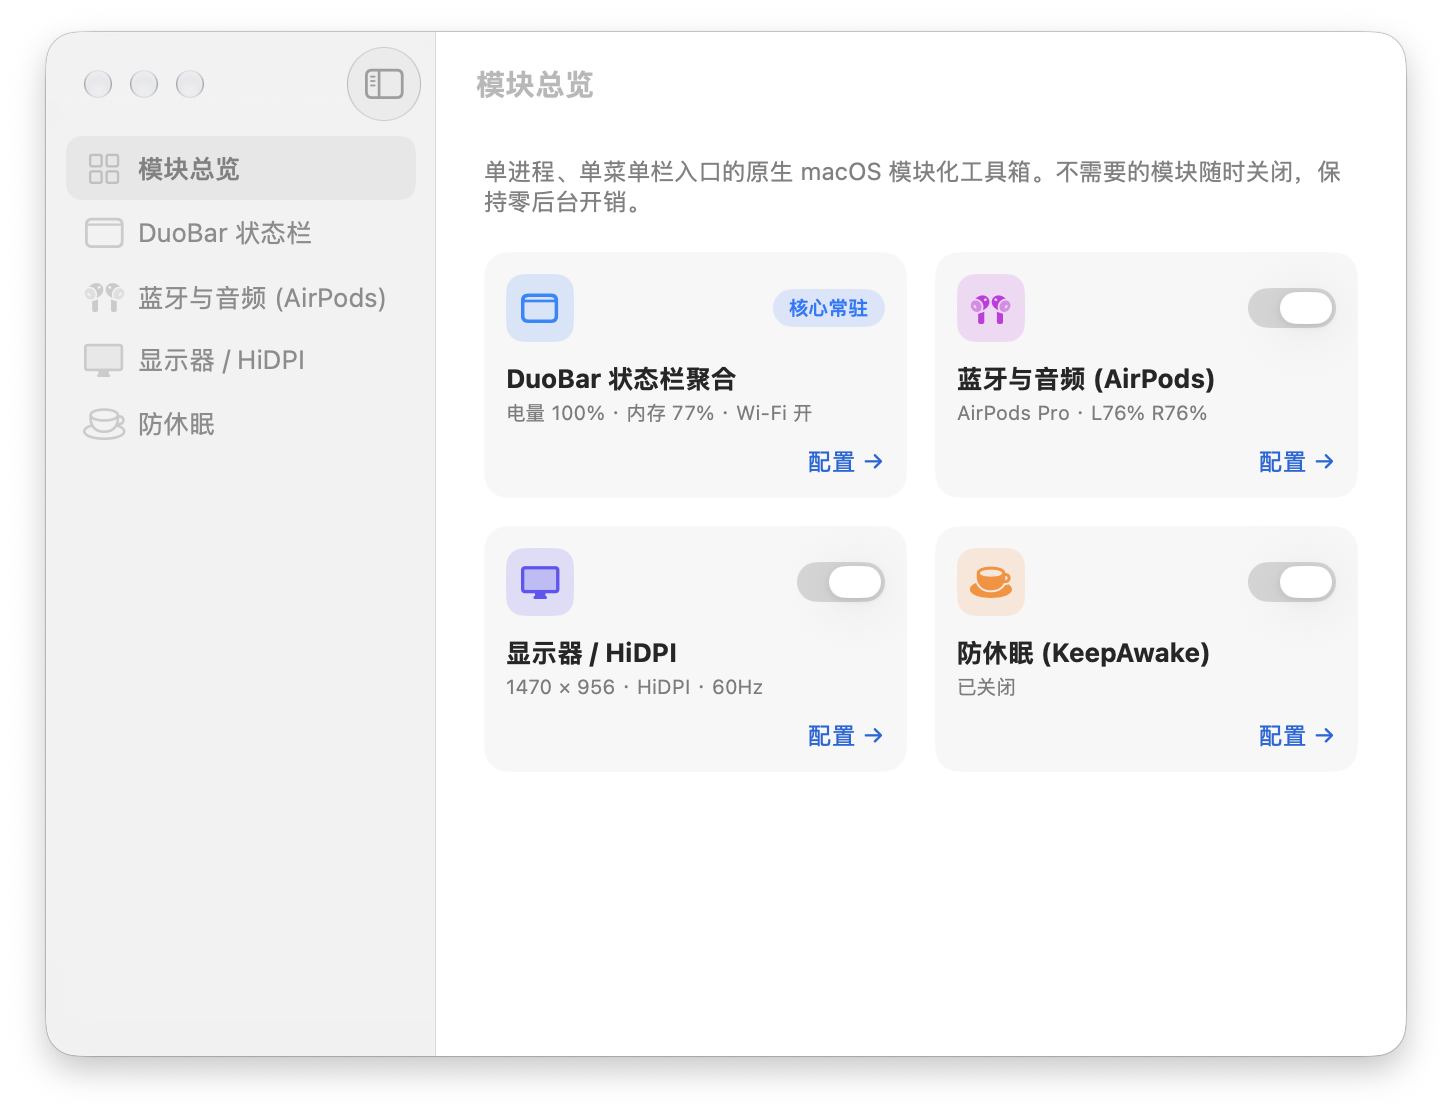
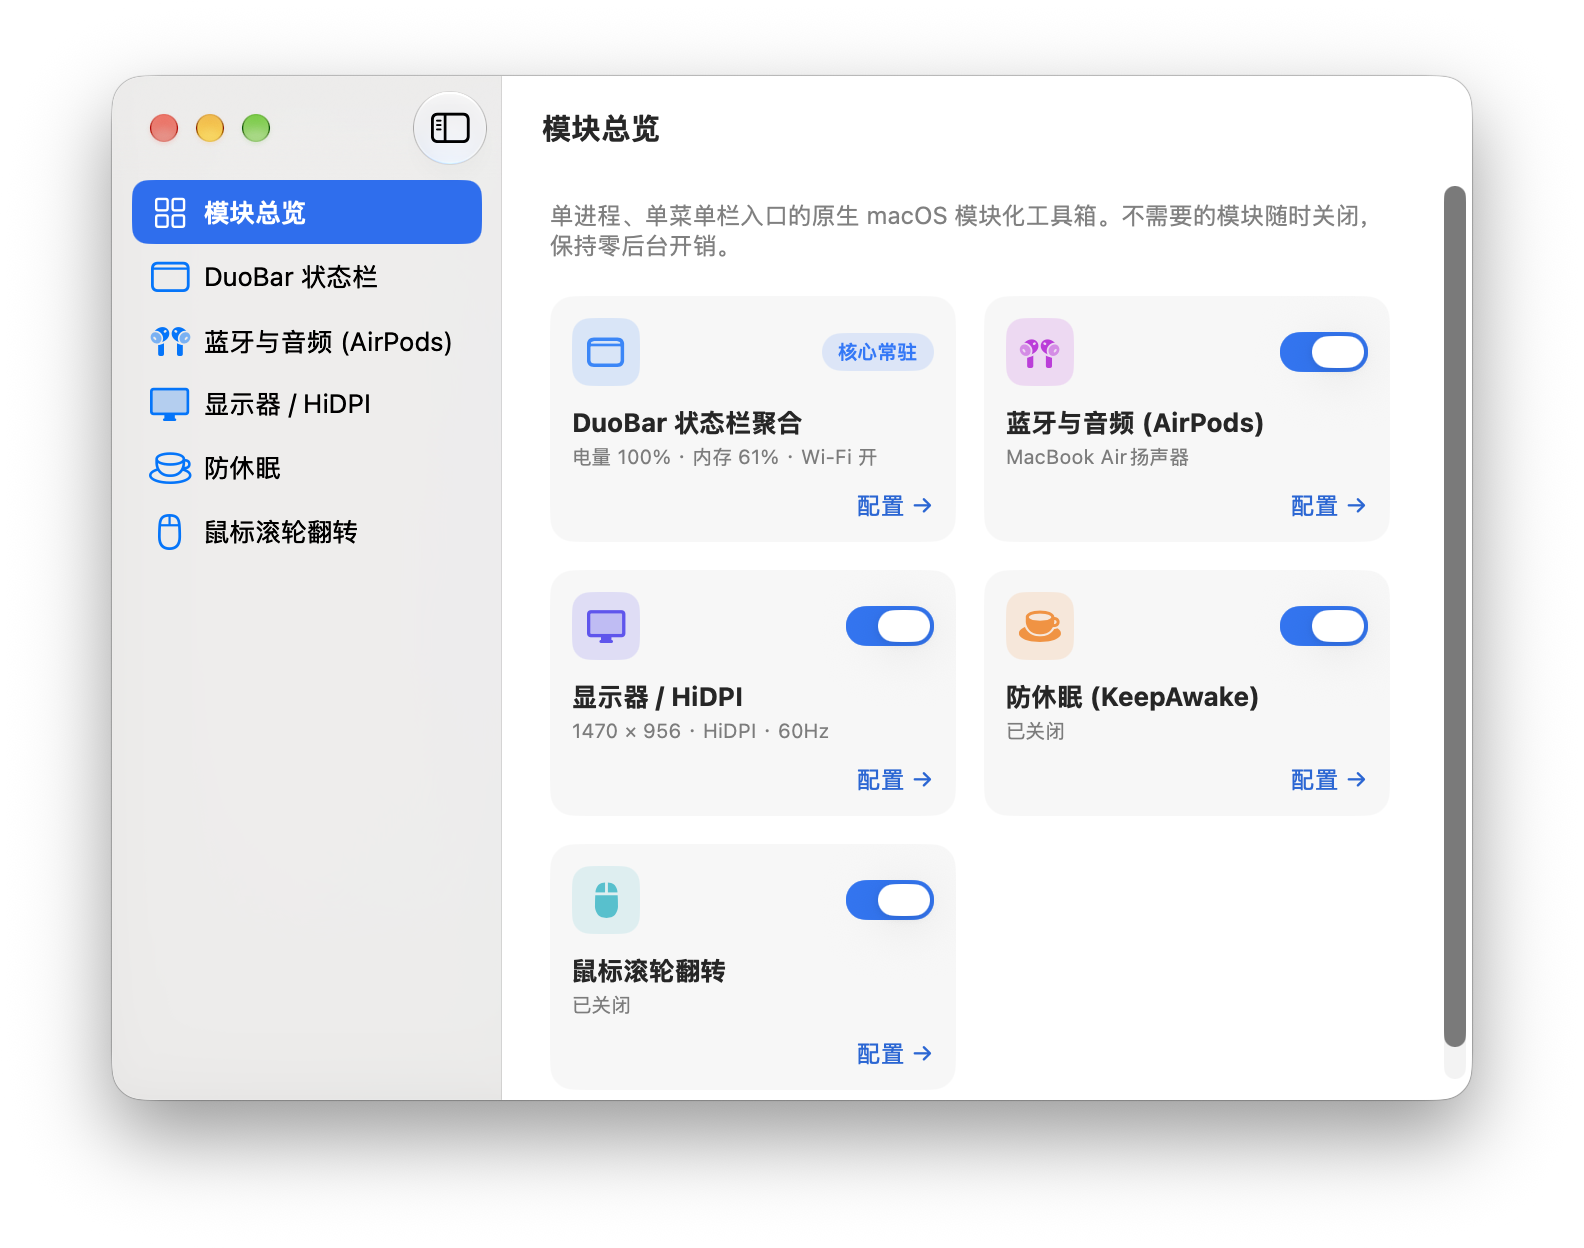
docs: add ScrollReverser module to README and bump version to v1.1.0

diff --git a/README_EN.md b/README_EN.md
@@ -173,6 +173,30 @@ Every extension module can be enabled or disabled independently in **Hub Console
 
 ---
 
+### 5. Mouse Scroll Reverser
+
+<table>
+  <tr>
+    <td width="38%" align="center">
+      <img src="docs/screenshots/popover-scroll.png" alt="Mouse Scroll Reverser Subpage" width="270" />
+    </td>
+    <td width="62%" valign="top">
+      <p><b>Highlights</b></p>
+      <ul>
+        <li><b>Independent Mouse vs. Trackpad Direction</b>: Uses a low-level Quartz <code>CGEventTap</code> to distinguish discrete mouse scroll wheels from trackpad gestures—reversing external mouse scrolling while preserving macOS Trackpad natural scrolling.</li>
+        <li><b>Separate Axis Controls</b>: Toggle vertical (up/down) and horizontal (tilt/side wheel) reversal independently.</li>
+        <li><b>Zero Idle Overhead</b>: Completely tears down the <code>CGEventTap</code> when turned off or disabled (0% idle CPU).</li>
+      </ul>
+      <p><b>Example</b></p>
+      <blockquote>
+        Love natural scrolling on your MacBook trackpad, but want traditional scrolling on an external mouse? Open YOMO → toggle Scroll Reverser on in one click—no extra standalone scroll utility needed.
+      </blockquote>
+    </td>
+  </tr>
+</table>
+
+---
+
 ### Appearance & Customization
 
 <table>
@@ -197,7 +221,7 @@ Every extension module can be enabled or disabled independently in **Hub Console
 
 ### Option 1: Download Release DMG (Recommended)
 
-1. Download **`YOMO-v1.0.0.dmg`** from the [Releases page](https://github.com/vvkis/YOMO/releases) (clean **`YOMO-v1.0.0-source.zip`** and `SHA256SUMS.txt` are also provided).
+1. Download **`YOMO-v1.1.0.dmg`** from the [Releases page](https://github.com/vvkis/YOMO/releases) (clean **`YOMO-v1.1.0-source.zip`** and `SHA256SUMS.txt` are also provided).
 2. Open the `.dmg` and drag **`YOMO.app`** into **`Applications`**.
 3. Launch **YOMO**, open **Appearance & Style**, and enable **Launch at Login**.
 
@@ -232,7 +256,7 @@ open dist/YOMO.app
 
 # 3. (Optional) Build Release DMG + clean source ZIP + SHA256 checksums
 ./scripts/build-release.sh
-# Outputs: dist/YOMO-v1.0.0.dmg, dist/YOMO-v1.0.0-source.zip, dist/SHA256SUMS.txt
+# Outputs: dist/YOMO-v1.1.0.dmg, dist/YOMO-v1.1.0-source.zip, dist/SHA256SUMS.txt
 ```
 
 ### Permissions
@@ -243,6 +267,7 @@ YOMO is **100% offline** with zero telemetry or network calls. Optional macOS pe
 | :--- | :--- | :--- |
 | **Location Services** | macOS 14+ requires Location access to read the current Wi-Fi SSID and scan nearby networks | Optional (signal bars & network speeds still work without it) |
 | **Bluetooth** | Read paired Bluetooth status, AirPods battery levels, and toggle connections | Only when using the Bluetooth module |
+| **Accessibility** | Intercept and reverse discrete external mouse wheel scroll events (leaves trackpad gestures untouched) | Only when using the Mouse Scroll Reverser module |
 
 ---
 
